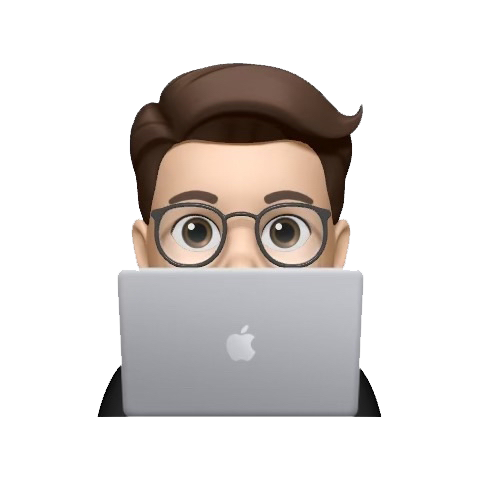
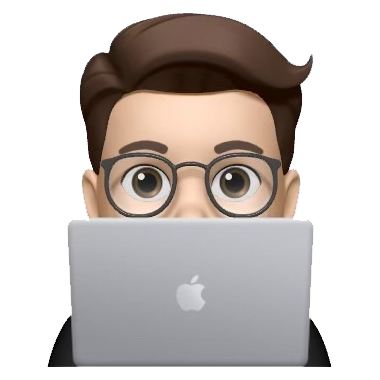
[DESIGN] Added memoji in the tech stack section

diff --git a/components/tech-stack.tsx b/components/tech-stack.tsx
@@ -127,69 +127,90 @@ const TechStack = memo(function TechStack() {
         whileInView={{ opacity: 1 }}
         viewport={{ once: true, amount: 0.3 }}
         transition={{ duration: 0.6, delay: 0.2 }}
-        className="relative w-screen space-y-8"
+        className="relative w-screen"
       >
-          <LogoLoop
-            items={webStack as any}
-            speed={30}
-            direction="left"
-            logoHeight={200}
-            gap={32}
-            pauseOnHover={true}
-            fadeOut={false}
-            scaleOnHover={true}
-            renderItem={(item: any) => (
-              <a
-                href={item.url}
-                target="_blank"
-                rel="noopener noreferrer"
-                className="flex items-center justify-center"
-                tabIndex={0}
-                aria-label={item.name}
-              >
-                <div className="relative w-24 h-24 transform transition-transform duration-300 hover:scale-110">
-                  <Image
-                    src={item.image}
-                    alt={item.name}
-                    fill
-                    className="object-contain"
-                    unoptimized
-                  />
-                </div>
-              </a>
-            )}
-          />
+        <div className="relative h-96 flex items-end justify-center">
+          <div className="absolute inset-0 space-y-8 flex flex-col justify-center pointer-events-none">
+            <LogoLoop
+              items={webStack as any}
+              speed={30}
+              direction="left"
+              logoHeight={200}
+              gap={32}
+              pauseOnHover={true}
+              fadeOut={false}
+              scaleOnHover={true}
+              renderItem={(item: any) => (
+                <a
+                  href={item.url}
+                  target="_blank"
+                  rel="noopener noreferrer"
+                  className="flex items-center justify-center pointer-events-auto"
+                  tabIndex={0}
+                  aria-label={item.name}
+                >
+                  <div className="relative w-24 h-24 transform transition-transform duration-300 hover:scale-110">
+                    <Image
+                      src={item.image}
+                      alt={item.name}
+                      fill
+                      className="object-contain"
+                      unoptimized
+                    />
+                  </div>
+                </a>
+              )}
+            />
 
-          <LogoLoop
-            items={infraStack as any}
-            speed={30}
-            direction="right"
-            logoHeight={200}
-            gap={32}
-            pauseOnHover={true}
-            fadeOut={false}
-            scaleOnHover={true}
-            renderItem={(item: any) => (
-              <a
-                href={item.url}
-                target="_blank"
-                rel="noopener noreferrer"
-                className="flex items-center justify-center"
-                tabIndex={0}
-                aria-label={item.name}
-              >
-                <div className="relative w-24 h-24 transform transition-transform duration-300 hover:scale-110">
-                  <Image
-                    src={item.image}
-                    alt={item.name}
-                    fill
-                    className="object-contain"
-                    unoptimized
-                  />
-                </div>
-              </a>
-            )}
-          />
+            <LogoLoop
+              items={infraStack as any}
+              speed={30}
+              direction="right"
+              logoHeight={200}
+              gap={32}
+              pauseOnHover={true}
+              fadeOut={false}
+              scaleOnHover={true}
+              renderItem={(item: any) => (
+                <a
+                  href={item.url}
+                  target="_blank"
+                  rel="noopener noreferrer"
+                  className="flex items-center justify-center pointer-events-auto"
+                  tabIndex={0}
+                  aria-label={item.name}
+                >
+                  <div className="relative w-24 h-24 transform transition-transform duration-300 hover:scale-110">
+                    <Image
+                      src={item.image}
+                      alt={item.name}
+                      fill
+                      className="object-contain"
+                      unoptimized
+                    />
+                  </div>
+                </a>
+              )}
+            />
+          </div>
+
+          <motion.div
+            initial={{ opacity: 0, y: 20 }}
+            whileInView={{ opacity: 1, y: 0 }}
+            viewport={{ once: true, amount: 0.3 }}
+            transition={{ duration: 0.6, delay: 0.4 }}
+            className="relative z-10 flex justify-center items-end pt-12"
+          >
+            <Image
+              src="/memoji-laptop.png"
+              alt="Memoji with laptop"
+              width={300}
+              height={500}
+              className="object-contain"
+              unoptimized
+            />
+          </motion.div>
+        </div>
       </motion.div>
     </section>
   )

diff --git a/app/layout.tsx b/app/layout.tsx
@@ -62,11 +62,6 @@ export const metadata: Metadata = {
   icons: {
     icon: [
       {
-        url: '/favicon.svg',
-        type: 'image/svg+xml',
-        sizes: 'any',
-      },
-      {
         url: '/memoji-right.png',
         type: 'image/png',
         sizes: '512x512',
